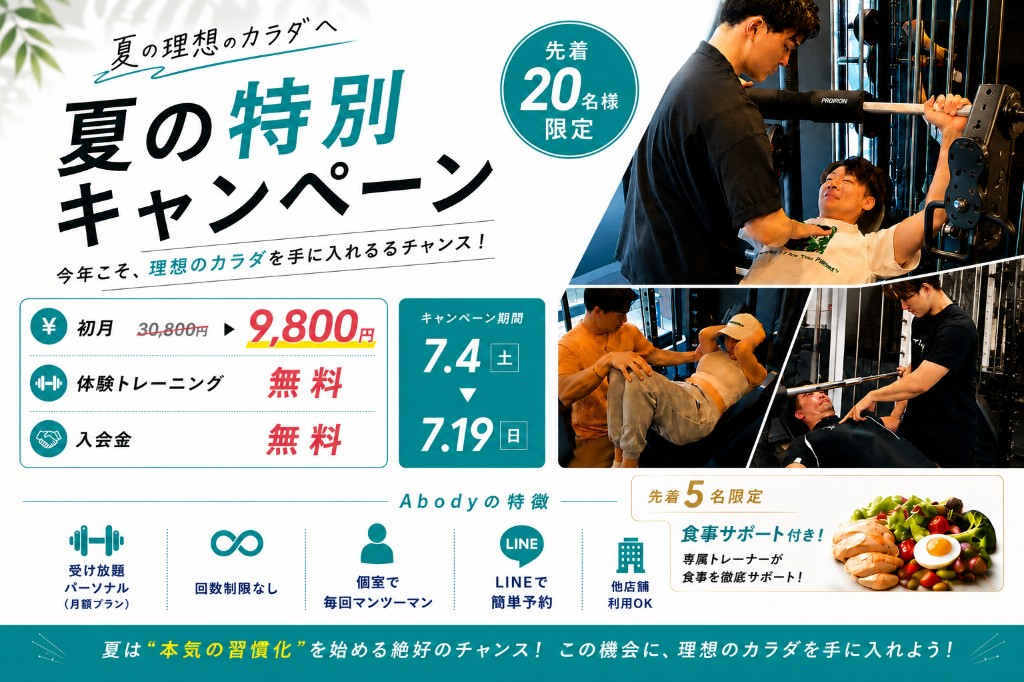
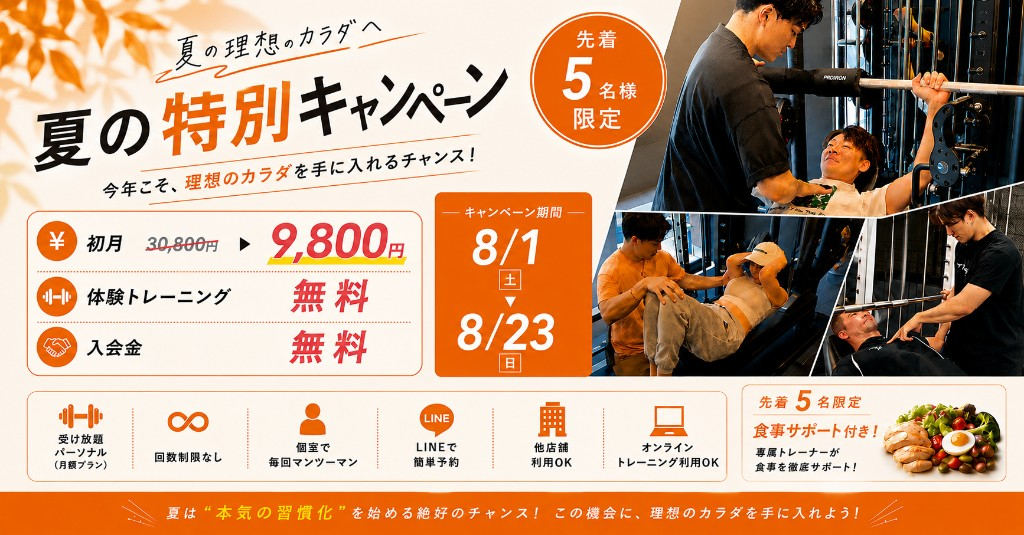
feat(lp): 8月夏の特別キャンペーンに更新
期間・画像・店舗別残り枠（新宿4/上野3/桜木町3/恵比寿2/福岡3）を反映。

diff --git a/apps/lp/src/lib/campaign.ts b/apps/lp/src/lib/campaign.ts
@@ -5,17 +5,17 @@ export const CAMPAIGN_IMAGE_ALT =
 
 export const CAMPAIGN_TITLE = "夏の特別キャンペーン";
 export const CAMPAIGN_SUBTITLE = "今年こそ、理想のカラダを手に入れるチャンス！";
-export const CAMPAIGN_PERIOD = "7.4（土）〜 7.19（日）";
-export const CAMPAIGN_LIMIT = "先着20名様限定";
+export const CAMPAIGN_PERIOD = "8.1（土）〜 8.23（日）";
+export const CAMPAIGN_LIMIT = "先着5名様限定";
 export const CAMPAIGN_FIRST_MONTH_ORIGINAL = "30,800円";
 export const CAMPAIGN_FIRST_MONTH_PRICE = "9,800円";
 
 export const CAMPAIGN_REMAINING_SLOTS: Record<string, number> = {
-  ebisu: 4,
-  ueno: 8,
-  sakuragicho: 9,
-  shinjuku: 8,
-  fukuoka: 7,
+  shinjuku: 4,
+  ueno: 3,
+  sakuragicho: 3,
+  ebisu: 2,
+  fukuoka: 3,
 };
 
 export const CAMPAIGN_STORES = [
@@ -52,4 +52,4 @@ export const CAMPAIGN_STORES = [
 ] as const;
 
 export const CAMPAIGN_BAR_TEXT =
-  "【夏の特別CP】初月9,800円｜体験・入会金無料｜7/4〜7/19";
+  "【夏の特別CP】初月9,800円｜体験・入会金無料｜8/1〜8/23";

diff --git a/apps/lp/src/components/lp/Campaign.tsx b/apps/lp/src/components/lp/Campaign.tsx
@@ -48,7 +48,7 @@ export function LPCampaign() {
       <div className="max-w-6xl mx-auto px-4 sm:px-6">
         <div className="bg-white rounded-2xl overflow-hidden shadow-soft border border-abody-teal/20">
           <div className="flex justify-center items-center w-full bg-neutral-100">
-            <div className="relative w-full max-w-[720px] aspect-[1024/682] mx-auto">
+            <div className="relative w-full max-w-[720px] aspect-[1024/535] mx-auto">
               <Image
                 src={CAMPAIGN_IMAGE}
                 alt={CAMPAIGN_IMAGE_ALT}
